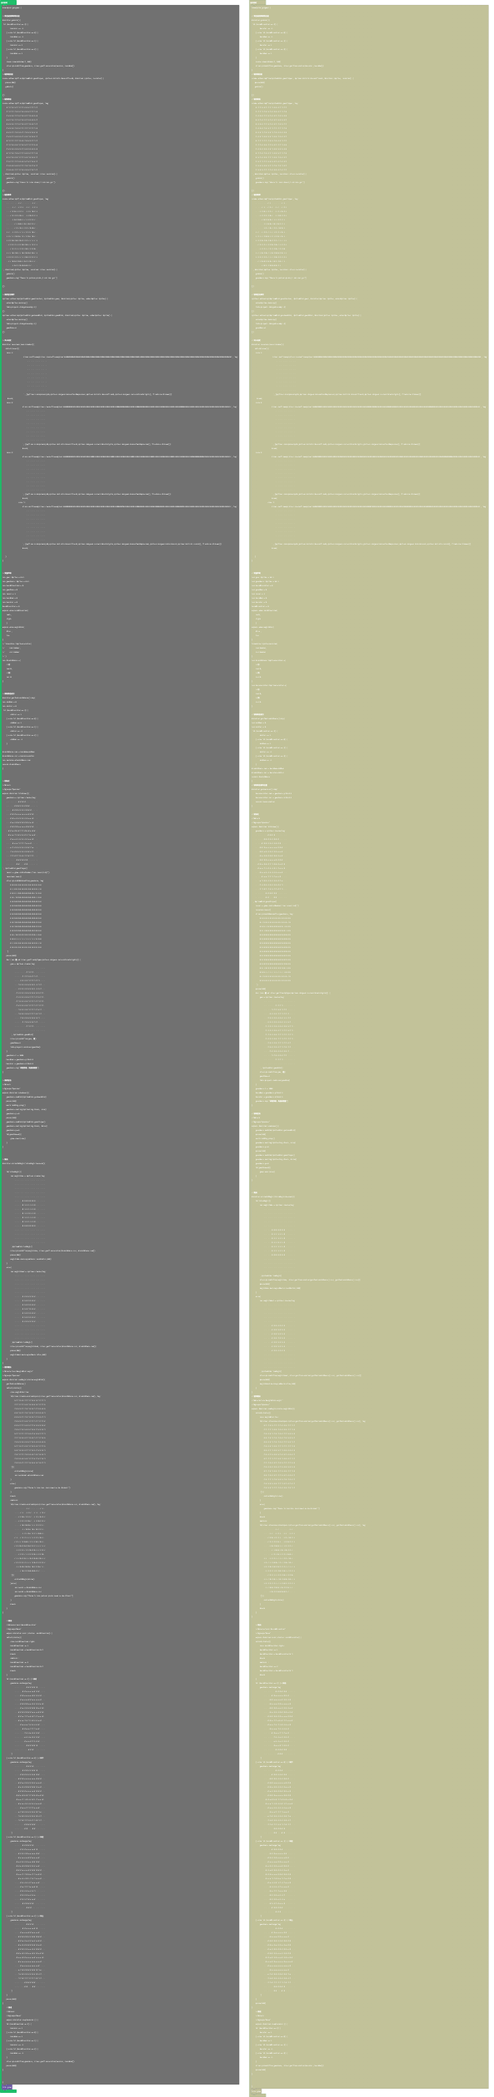
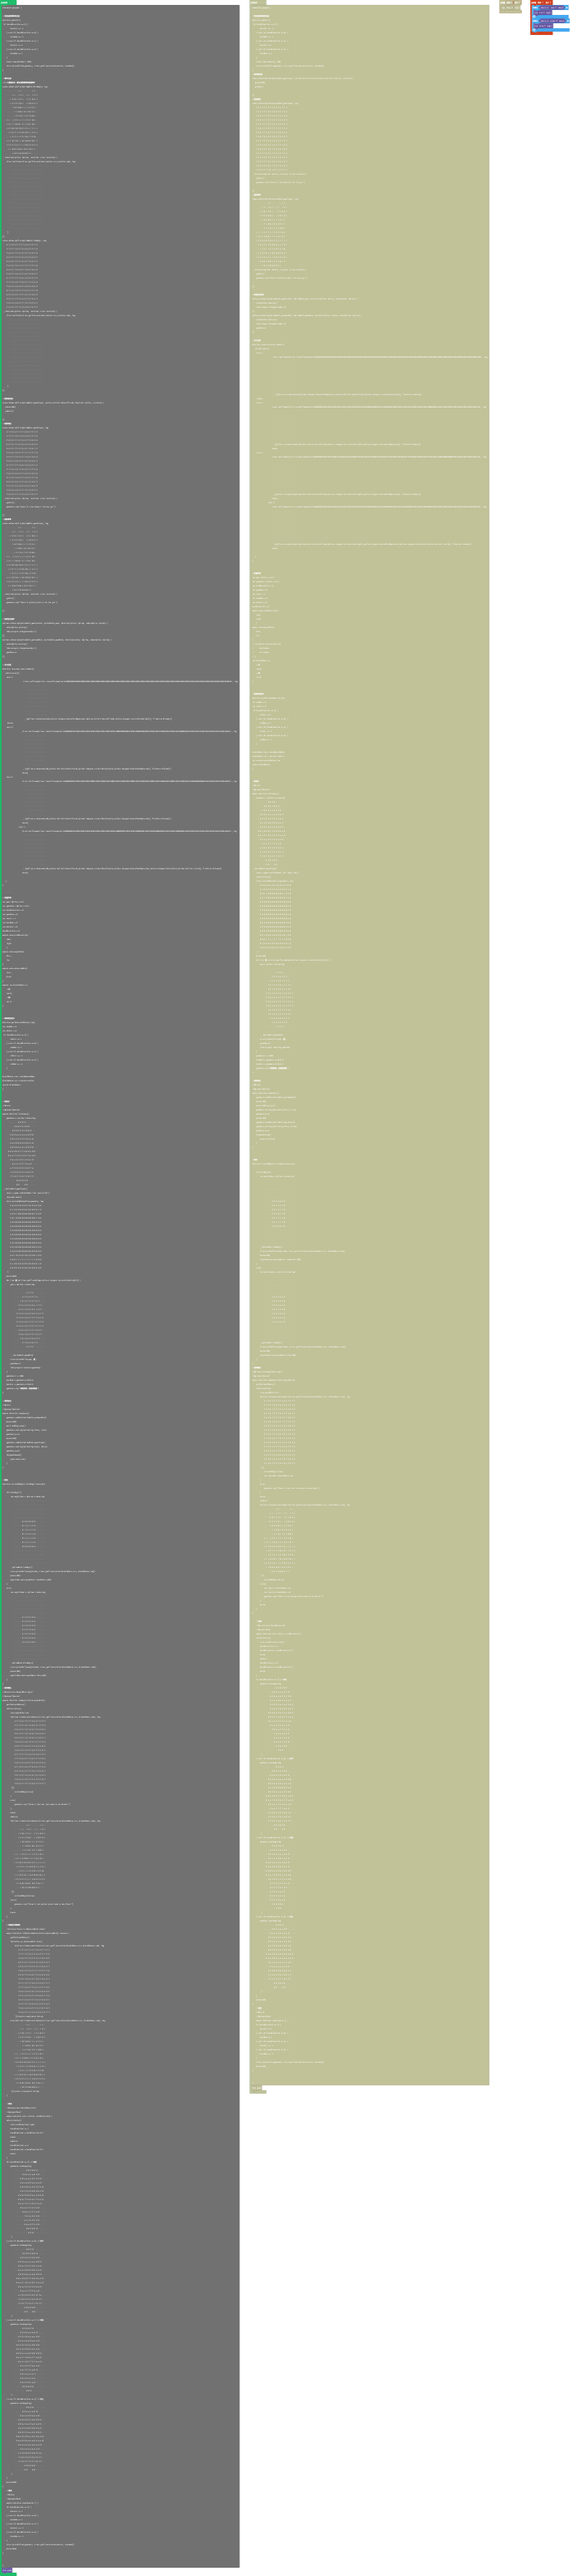
更新 main.blocks, main.ts

diff --git a/main.ts b/main.ts
@@ -14,7 +14,12 @@ controller.B.onEvent(ControllerButtonEvent.Pressed, function () {
     getgems.turn(getgems.turnDirection.left)
 })
 controller.menu.onEvent(ControllerButtonEvent.Pressed, function () {
-    getgems.useMagic(getgems.magicKind.fire)
+    if (getgems.isObastaleAhead(getgems.obastaleKind.lava)) {
+        getgems.useMagic(getgems.magicKind.ice)
+    }
+    if (getgems.isObastaleAhead(getgems.obastaleKind.plant)) {
+        getgems.useMagic(getgems.magicKind.fire)
+    }
 })
 namespace getgems {
 
@@ -34,7 +39,82 @@ function goBack(){
 }
 
 //事件注册
-//9.23更新标记：魔法消除障碍物碰撞事件
+//魔法消除障碍物碰撞事件
+scene.onOverlapTile(SpriteKind.fireMagic, img`
+    . . . . . . c c . . . . . c c .
+    . . . c c . c 3 c . c c . c 3 c
+    . . c 3 6 c 3 3 c . c 3 c 6 3 c
+    . . c 3 3 3 3 6 c . c 3 6 3 3 c
+    . . . c 6 3 6 6 c c c 3 3 3 c .
+    . . . . c c 6 6 c 6 c 6 3 3 c .
+    . . . . c 3 c 6 c 3 3 c 6 6 c .
+    c c . c 3 3 c c c c 3 3 c 6 c .
+    c 3 c c 3 6 6 c 3 c 3 6 c 6 c .
+    c 3 3 6 3 6 3 6 3 3 3 c c c c c
+    . c 3 3 3 c 3 3 6 3 6 c c 3 3 c
+    . . c 3 3 c c 3 3 3 6 c 3 3 6 .
+    c c c 6 3 6 c c 6 3 6 6 3 6 c c
+    c 3 3 3 3 3 c c c 3 6 3 3 3 3 c
+    . c c 6 6 3 6 6 c 6 3 3 6 c c .
+    . . . c 6 3 3 6 6 6 6 3 c . . .
+`, function(sprite: Sprite, location: tiles.Location) {
+    tiles.setTileAt(tiles.getTileLocation(location.col,location.row), img`
+        . . . . . . . . . . . . . . . .
+        . . . . . . . . . . . . . . . .
+        . . . . . . . . . . . . . . . .
+        . . . . . . . . . . . . . . . .
+        . . . . . . . . . . . . . . . .
+        . . . . . . . . . . . . . . . .
+        . . . . . . . . . . . . . . . .
+        . . . . . . . . . . . . . . . .
+        . . . . . . . . . . . . . . . .
+        . . . . . . . . . . . . . . . .
+        . . . . . . . . . . . . . . . .
+        . . . . . . . . . . . . . . . .
+        . . . . . . . . . . . . . . . .
+        . . . . . . . . . . . . . . . .
+        . . . . . . . . . . . . . . . .
+        . . . . . . . . . . . . . . . .
+    `)
+})
+scene.onOverlapTile(SpriteKind.iceMagic, img`
+    5 4 4 5 5 4 4 4 4 2 2 2 4 4 4 4
+    4 4 4 4 4 5 5 4 2 2 2 2 4 4 4 5
+    4 2 2 2 4 4 5 4 2 2 4 4 5 5 5 5
+    2 2 4 2 4 4 5 4 2 2 4 5 5 5 5 4
+    2 2 2 2 4 4 5 4 2 2 4 4 5 5 4 4
+    4 2 2 2 4 5 5 4 4 4 4 4 4 4 4 2
+    2 2 2 4 4 5 5 5 4 4 2 2 2 2 2 2
+    4 2 2 4 5 5 5 5 4 2 2 4 2 2 2 4
+    5 4 4 4 4 4 4 5 5 4 2 2 2 4 4 4
+    4 4 4 2 2 2 4 4 5 5 4 4 4 4 5 5
+    4 2 2 2 2 2 2 2 4 5 5 5 5 5 5 5
+    5 4 4 2 4 2 2 4 4 5 5 5 4 4 4 5
+    5 5 4 2 2 2 4 4 4 5 5 4 2 2 2 4
+    4 5 4 4 4 4 5 5 5 5 4 2 4 2 2 4
+    4 5 5 5 5 5 5 4 4 4 2 4 2 4 2 4
+    4 5 5 5 4 4 4 4 2 2 2 2 4 2 4 4
+`, function(sprite: Sprite, location: tiles.Location) {
+    tiles.setTileAt(tiles.getTileLocation(location.col,location.row), img`
+        . . . . . . . . . . . . . . . .
+        . . . . . . . . . . . . . . . .
+        . . . . . . . . . . . . . . . .
+        . . . . . . . . . . . . . . . .
+        . . . . . . . . . . . . . . . .
+        . . . . . . . . . . . . . . . .
+        . . . . . . . . . . . . . . . .
+        . . . . . . . . . . . . . . . .
+        . . . . . . . . . . . . . . . .
+        . . . . . . . . . . . . . . . .
+        . . . . . . . . . . . . . . . .
+        . . . . . . . . . . . . . . . .
+        . . . . . . . . . . . . . . . .
+        . . . . . . . . . . . . . . . .
+        . . . . . . . . . . . . . . . .
+        . . . . . . . . . . . . . . . .
+    `)
+})
+
 //碰到墙回退
 scene.onOverlapTile(SpriteKind.gemsPlayer, sprites.builtin.forestTiles0, function (sprite, location) {
    pause(500) 
@@ -150,6 +230,30 @@ function levelset(level:number){
                         . . . . . . . . . .
                     `, [myTiles.transparency16,sprites.builtin.forestTiles0,sprites.dungeon.collectibleInsignia,sprites.dungeon.buttonTealDepressed,sprites.dungeon.hazardLava1,sprites.builtin.coral0], TileScale.Sixteen))
                     break;
+                case 5:
[1 lines of base64/hex data omitted]
+                        . . . . . . . . . .
+                        . . . . . . . . . .
+                        . . . . . . . . . .
+                        . . . . . . . . . .
+                        . . . . . . . . . .
+                        . . . . . . . . . .
+                        . . . . . . . . . .
+                        . . . . . . . . . .
+                    `, [myTiles.transparency16,sprites.builtin.forestTiles0,sprites.dungeon.collectibleInsignia,sprites.dungeon.buttonTealDepressed,sprites.dungeon.hazardLava1], TileScale.Sixteen))
+                    break;
+                case 6:
[1 lines of base64/hex data omitted]
+                        . . . . . . . . . .
+                        . . . . . . . . . .
+                        . . . . . . . . . .
+                        . . . . . . . . . .
+                        . . . . . . . . . .
+                        . . . . . . . . . .
+                        . . . . . . . . . .
+                        . . . . . . . . . .
+                    `, [myTiles.transparency16,sprites.builtin.forestTiles0,sprites.dungeon.collectibleInsignia,sprites.dungeon.buttonTealDepressed,sprites.dungeon.hazardLava1,sprites.builtin.coral0], TileScale.Sixteen))
+                    break;
                     
 			}    
 }
@@ -172,11 +276,11 @@ export enum magicKind{
     fire ,
     ice
 }
-// interface IspriteLocation{
-//     row:number,
-//     col:number
-// }
-let frontOfHero ={
+export enum obastaleKind{
+    lava ,
+    plant
+}
+export let frontOfHero ={
     //行
     row:0,
     //列
@@ -273,7 +377,7 @@ export function initGame(){
     gemsHero.z = 1000
     heroRow = gemsHero.y/16-0.5
     heroCol = gemsHero.x/16-0.5
-    gemsHero.say("改程序前，先画流程图")
+    gemsHero.say("改程序前，先画流程图",3000)
 }
 
 //获得宝石
@@ -339,7 +443,7 @@ function actionOfMagic(isIceMagic:boolean){
             . . . . . . . . . . . . . . . .
             . . . . . . . . . . . . . . . .
             . . . . . . . . . . . . . . . .
-        `,SpriteKind.iceMagic)
+        `,SpriteKind.fireMagic)
         tiles.placeOnTile(magicCube2, tiles.getTileLocation(frontOfHero.col, frontOfHero.row))
         pause(500)
         magicCube2.destroy(effects.fire,500)
@@ -402,6 +506,48 @@ export function useMagic(choice:magicKind){
         break
     }
 }
+    //判断前方障碍物
+    //% block="there is %obstaleKind ahead"
+    export function isObastaleAhead(choice:obastaleKind): boolean {
+        getTheFrontOfHero()
+        if(choice == obastaleKind.lava){
+            if(tiles.tileAtLocationEquals(tiles.getTileLocation(frontOfHero.col, frontOfHero.row), img`
+                5 4 4 5 5 4 4 4 4 2 2 2 4 4 4 4
+                4 4 4 4 4 5 5 4 2 2 2 2 4 4 4 5
+                4 2 2 2 4 4 5 4 2 2 4 4 5 5 5 5
+                2 2 4 2 4 4 5 4 2 2 4 5 5 5 5 4
+                2 2 2 2 4 4 5 4 2 2 4 4 5 5 4 4
+                4 2 2 2 4 5 5 4 4 4 4 4 4 4 4 2
+                2 2 2 4 4 5 5 5 4 4 2 2 2 2 2 2
+                4 2 2 4 5 5 5 5 4 2 2 4 2 2 2 4
+                5 4 4 4 4 4 4 5 5 4 2 2 2 4 4 4
+                4 4 4 2 2 2 4 4 5 5 4 4 4 4 5 5
+                4 2 2 2 2 2 2 2 4 5 5 5 5 5 5 5
+                5 4 4 2 4 2 2 4 4 5 5 5 4 4 4 5
+                5 5 4 2 2 2 4 4 4 5 5 4 2 2 2 4
+                4 5 4 4 4 4 5 5 5 5 4 2 4 2 2 4
+                4 5 5 5 5 5 5 4 4 4 2 4 2 4 2 4
+                4 5 5 5 4 4 4 4 2 2 2 2 4 2 4 4
+            `)){return true}return false}
+        else{if(tiles.tileAtLocationEquals(tiles.getTileLocation(frontOfHero.col, frontOfHero.row), img`
+            . . . . . . c c . . . . . c c .
+            . . . c c . c 3 c . c c . c 3 c
+            . . c 3 6 c 3 3 c . c 3 c 6 3 c
+            . . c 3 3 3 3 6 c . c 3 6 3 3 c
+            . . . c 6 3 6 6 c c c 3 3 3 c .
+            . . . . c c 6 6 c 6 c 6 3 3 c .
+            . . . . c 3 c 6 c 3 3 c 6 6 c .
+            c c . c 3 3 c c c c 3 3 c 6 c .
+            c 3 c c 3 6 6 c 3 c 3 6 c 6 c .
+            c 3 3 6 3 6 3 6 3 3 3 c c c c c
+            . c 3 3 3 c 3 3 6 3 6 c c 3 3 c
+            . . c 3 3 c c 3 3 3 6 c 3 3 6 .
+            c c c 6 3 6 c c 6 3 6 6 3 6 c c
+            c 3 3 3 3 3 c c c 3 6 3 3 3 3 c
+            . c c 6 6 3 6 6 c 6 3 3 6 c c .
+            . . . c 6 3 3 6 6 6 6 3 c . . .
+        `)){return true}return false}
+    }
 
     //转向
     //%block="turn %turnDirection"
